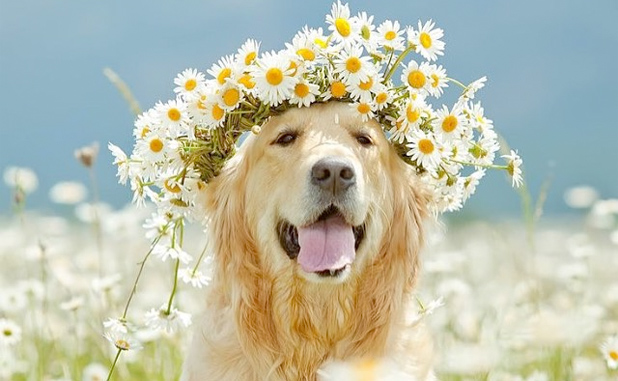
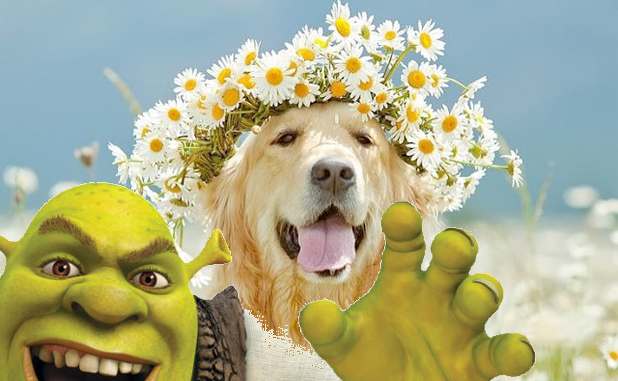
Change pictures

Changed region(s): [[0.0, 0.4619, 0.8916, 1.0]]

diff --git a/index.html b/index.html
@@ -8,14 +8,13 @@
 </head>
 <body>
         <main>
-                <img src="img/world.jpg" title="world">
-                <img src="img/ogre.jpg" title="ogre">
-                <p>Welcome to My Awesome Game, where you have to escape Shrek. 
-                    He will follow you around the world ... Find your way through 
-                    this world by clicking the links below.</p>
+                <h1>Welcome to My Awesome Game!</h1>
+                <img src="img/worldwithogre.jpg" title="world">
+                <p>You find yourself in a remote world where you have to escape the evil clutches of the ogre Shrek. 
+                    Find your way through this world by clicking the links below.</p>
             </main>
             <nav>
-                <a href="page2.html">To the left, you see a shadowy place with rocks. Click here to go to the rocks.</a>
+                <a href="page2.html">To the left, you see a scary shadowy place with rocks. Click here to go to the rocks.</a>
                 <br>
                 <a href="page3.html">In front of you is a beautiful meadow, full of rainbows and puppys.
                     Click here to go to the meadow.</a>

diff --git a/page3.html b/page3.html
@@ -9,7 +9,6 @@
 <body>
         <main>
                 <img src="img/meadow.jpg" title="meadow">
-                <img src="img/ogre.jpg" title="ogre">
                 <p>When you get to the meadow you lay down in the grass to play with the puppies. But suddenly, 
                     Shrek turn up! Run away!
                 </p>      

diff --git a/page2.html b/page2.html
@@ -8,7 +8,7 @@
 </head>
 <body>
         <main>
-                <img src="img/world.jpg" title="world">
+                <img src="img/scaryplace.png" title="world">
                 <p>Though it was a rocky road, you finally managed to escape the evil ogre. You have won the game!</p>        
             </main>
             <nav>

diff --git a/page4.html b/page4.html
@@ -9,7 +9,6 @@
 <body>
     <main>
         <img src="img/lake.jpg" title="lake">
-        <img src="img/ogre.jpg" title="ogre">
         <p>You get to the beautiful lake, but when you turn around, Shrek is still there! Onwards, my friend.</p>
     </main>
     <nav>
